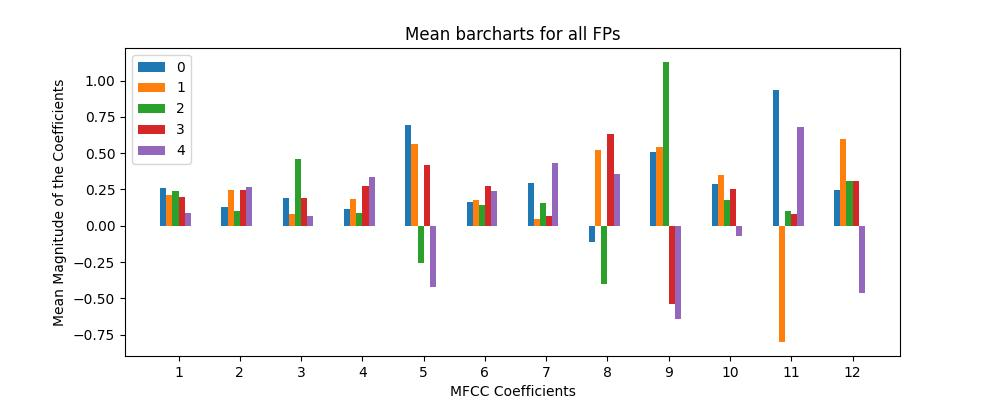
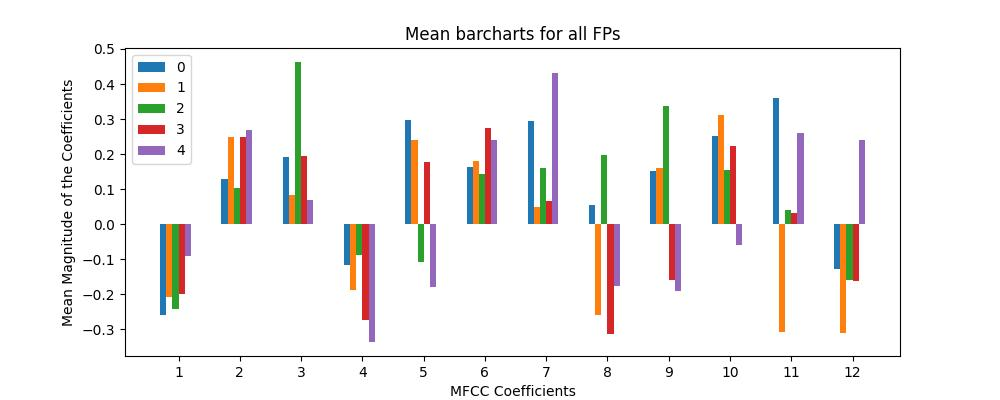
normalised sample_analysis.py mfcc bar charts

diff --git a/original_model/sample_analysis.py b/original_model/sample_analysis.py
@@ -151,10 +151,11 @@ def generate_plots(items, type):
     # Multiple bar chart for mean of each coefficient for all 5 samples of TP and FP
 
     # Normalise all coefficients so that you can compare them with each other
-    all_mean_mfccs = np.array([np.array(x) for x in all_mean_mfccs])
+    all_mean_mfccs = np.array(all_mean_mfccs)
     all_mean_mfccs = all_mean_mfccs.T
-    all_mean_mfccs = np.array([x/(np.sum(x)) for x in all_mean_mfccs])
-    all_mean_mfccs = list(all_mean_mfccs.T)
+    new = np.array([x/(np.sum(np.abs(x))) for x in all_mean_mfccs])
+    print(new[0])
+    all_mean_mfccs = new.T
 
     plt.figure(figsize=(10, 4))
     r = np.arange(12) 

diff --git a/mfcc_heatmap_image_classification/main.py b/mfcc_heatmap_image_classification/main.py
@@ -1,0 +1,7 @@
+import numpy as np
+import tensorflow as tf
+import librosa
+import pickle
+
+
+print("hello, world!")
